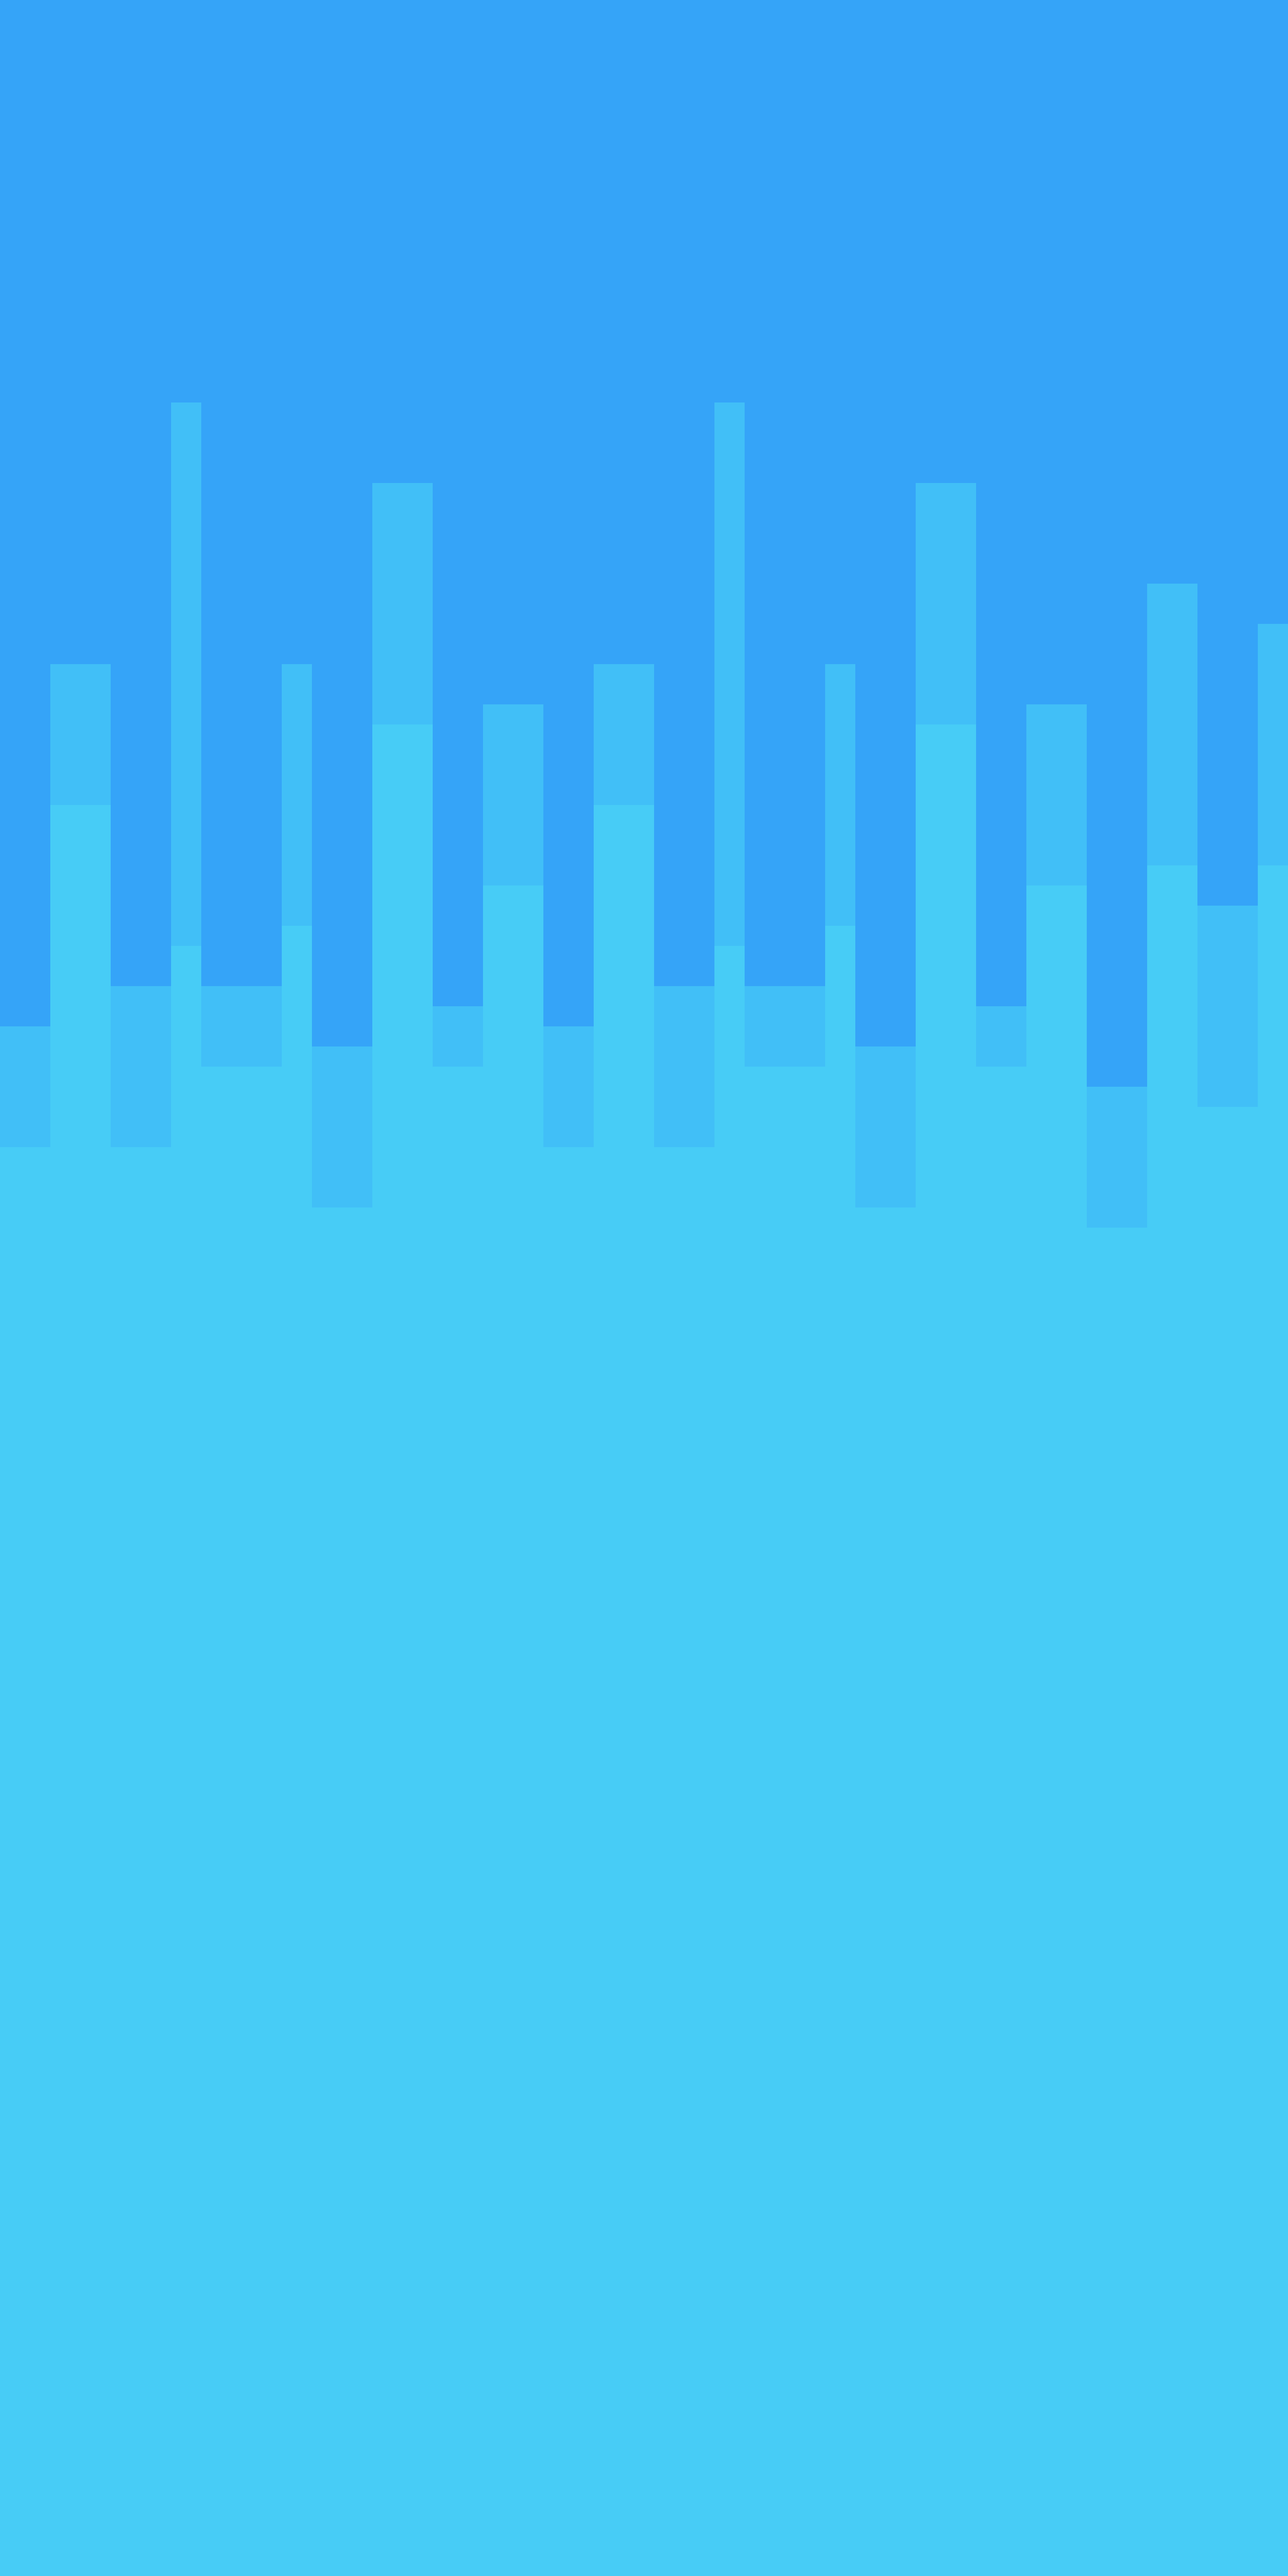
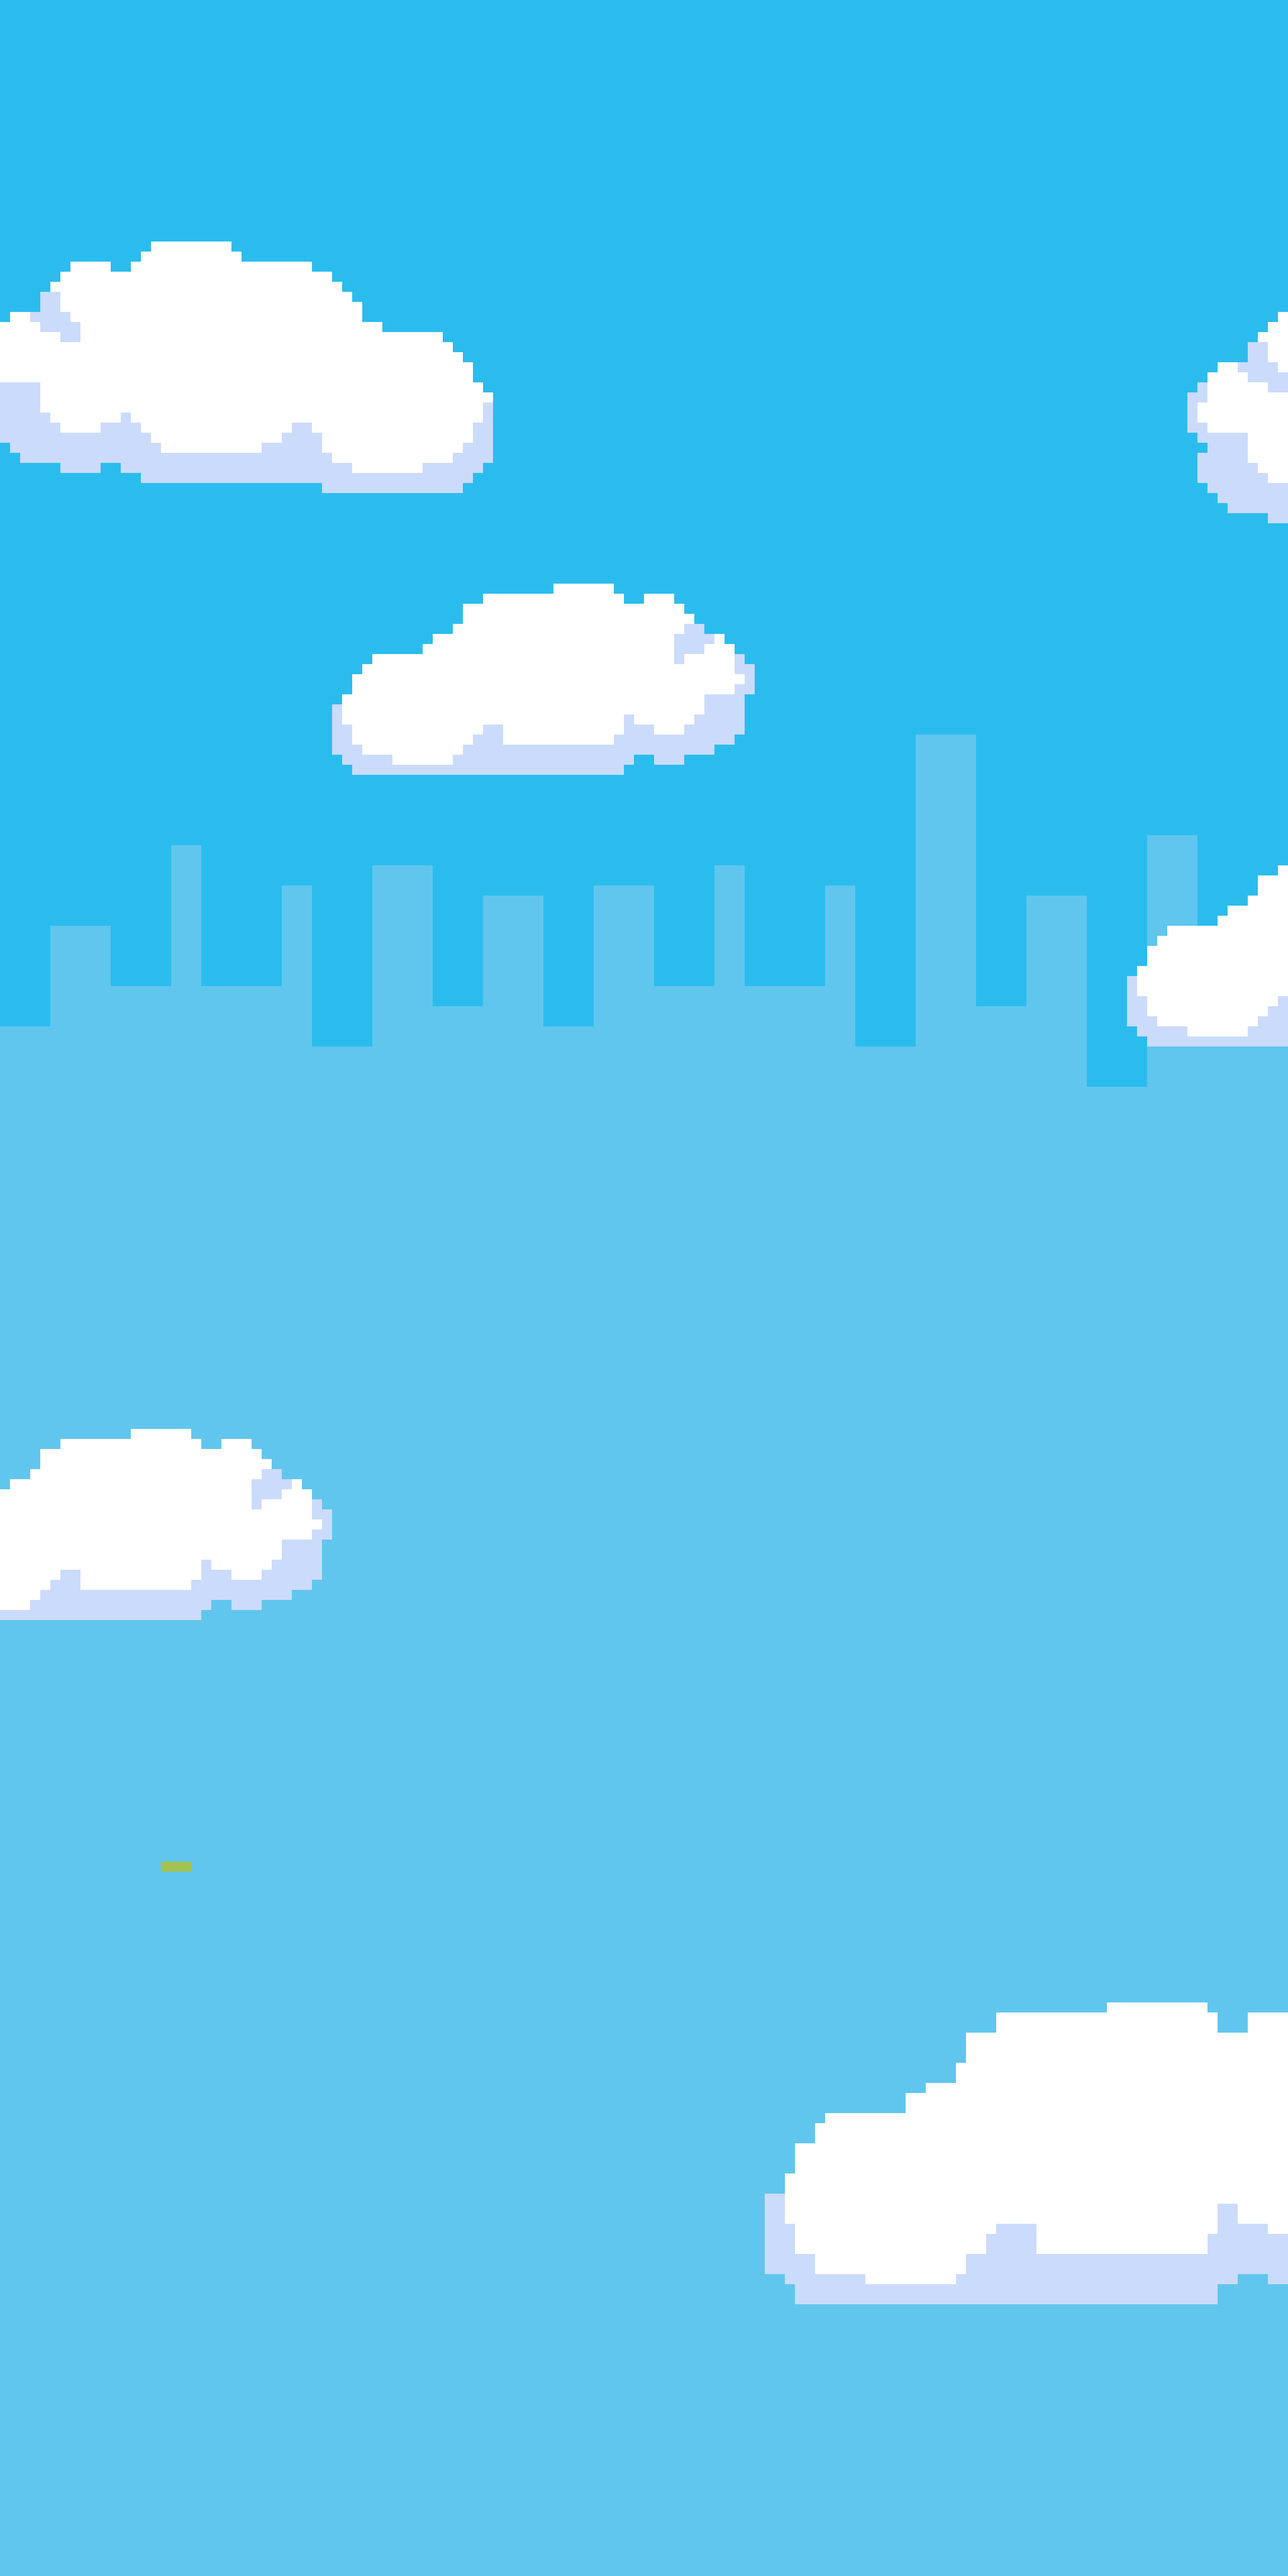
New backgrounds colors more figma like

diff --git a/app/index.tsx b/app/index.tsx
@@ -57,7 +57,7 @@ export default function App() {
       <ScrollView contentContainerStyle={{ height: "100%" }}>
         <View className="flex-1 w-full h-full">
           <ImageBackground
-            source={require("../assets/HD/background_no_scroll.png")}
+            source={require("../assets/HD/background1.png")}
             className="flex-1 items-center justify-center"
             resizeMode="stretch"
           >

diff --git a/app/(auth)/sign-up.tsx b/app/(auth)/sign-up.tsx
@@ -48,7 +48,7 @@ const SignUp = () => {
       <ScrollView contentContainerStyle={{ height: "100%" }}>
         <View className="flex-1 w-full h-full">
           <ImageBackground
-            source={require("../../assets/HD/background_no_scroll.png")}
+            source={require("../../assets/HD/background1.png")}
             className="flex-1 items-center justify-center"
             resizeMode="cover"
           >

diff --git a/app/(auth)/log-in.tsx b/app/(auth)/log-in.tsx
@@ -48,7 +48,7 @@ const LogIn = () => {
       <ScrollView contentContainerStyle={{ height: "100%" }}>
         <View className="flex-1 w-full h-full">
           <ImageBackground
-            source={require("../../assets/HD/background_no_scroll.png")}
+            source={require("../../assets/HD/background1.png")}
             className="flex-1 items-center justify-center"
             resizeMode="cover"
           >
